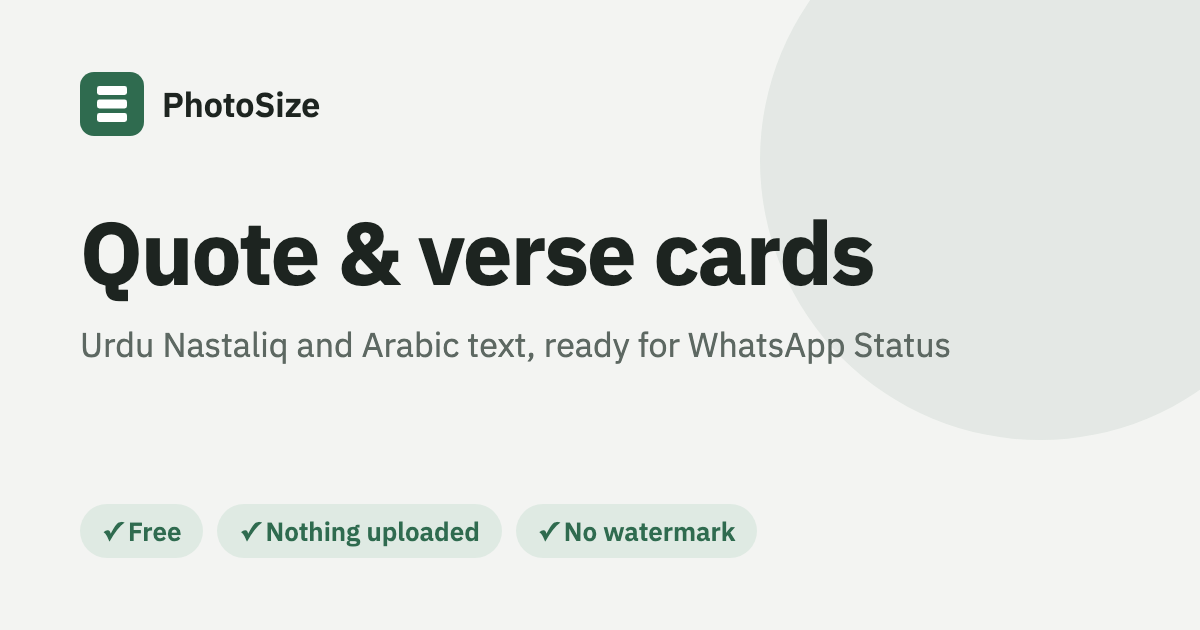
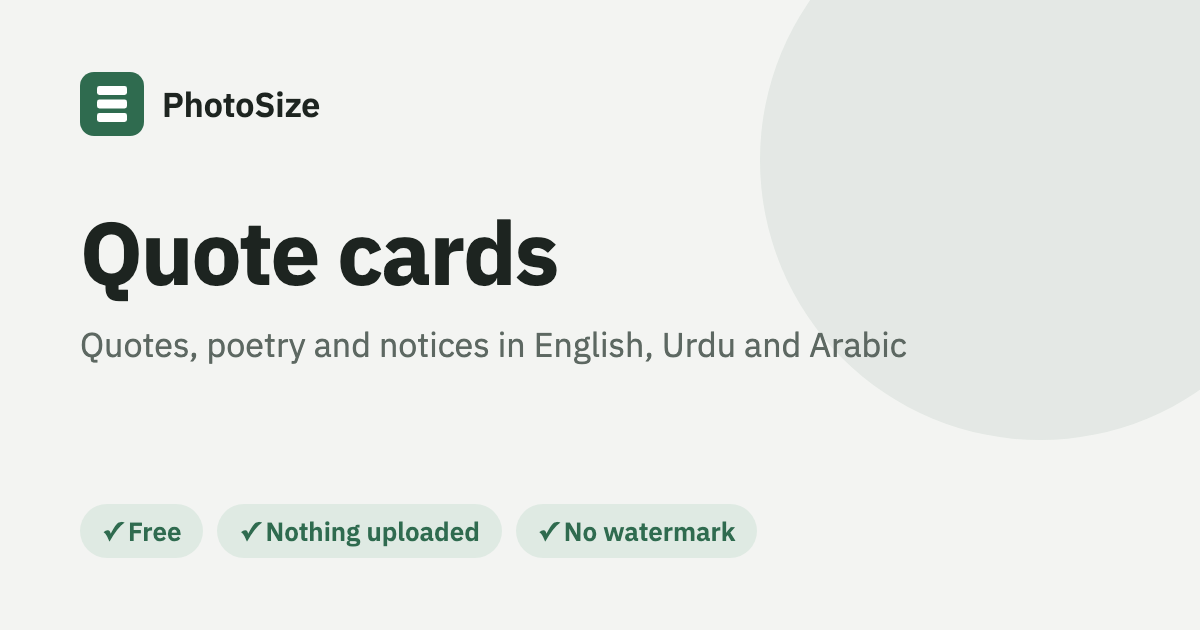
Neutral examples: Cards shows an Urdu proverb, Quiz cards a general-knowledge quiz; 'verse' and 'hadith' wording replaced with quotes, poetry and announcements in pages, help and social image; old saved example drafts are replaced, people's own text is kept

Changed region(s): [[0.2775, 0.3317, 0.74, 0.4524], [0.0617, 0.5127, 0.8017, 0.573]]

diff --git a/src/tools/CardsTool.tsx b/src/tools/CardsTool.tsx
@@ -12,20 +12,27 @@ interface Props {
 
 const KEY = 'cards-draft';
 const EXAMPLE: Card = {
-  text: 'بِسْمِ اللَّهِ الرَّحْمَٰنِ الرَّحِيمِ',
-  sub: 'In the name of Allah, the Most Gracious, the Most Merciful',
-  footer: 'Weekly Quran Circle',
+  text: 'محنت کامیابی کی کنجی ہے',
+  sub: 'Hard work is the key to success',
+  footer: 'Your name or group',
   template: 'paper',
   size: 'status',
   font: 'auto',
 };
 
+/** The example text earlier versions saved as a draft; replaced by the current example. */
+const OLD_EXAMPLE = 'بِسْمِ اللَّهِ الرَّحْمَٰنِ الرَّحِيمِ';
+
 function load(): Card {
-  try { return { ...EXAMPLE, ...JSON.parse(localStorage.getItem(KEY) || '{}') }; } catch { return EXAMPLE; }
+  try {
+    const saved = JSON.parse(localStorage.getItem(KEY) || '{}');
+    if (saved.text === OLD_EXAMPLE) { delete saved.text; delete saved.sub; delete saved.footer; }
+    return { ...EXAMPLE, ...saved };
+  } catch { return EXAMPLE; }
 }
 
 /**
- * Cards: verses, quotes and announcements as images sized for WhatsApp Status or Instagram,
+ * Cards: quotes, poems and announcements as images sized for WhatsApp Status or Instagram,
  * with proper Arabic, Urdu (Nastaliq) and English text. Nothing is uploaded.
  */
 export function CardsTool({ toast, show }: Props) {
@@ -60,13 +67,13 @@ export function CardsTool({ toast, show }: Props) {
     <main className="wrap">
       <div className="tool-head">
         <h1>{pageH1('Cards')}</h1>
-        <p>Make a verse, quote or announcement card for WhatsApp Status or Instagram, with proper Arabic and Urdu lettering. Nothing is uploaded.</p>
+        <p>Make a quote, poem or announcement card for WhatsApp Status or Instagram, with proper Arabic and Urdu lettering. Nothing is uploaded.</p>
       </div>
       <div className="grid">
         <section className="panel" aria-label="Card text and style">
           <div className="section" style={{ borderTop: 0, paddingTop: 0 }}>
             <label className="label" htmlFor="card-text">Main text</label>
-            <textarea id="card-text" dir="auto" rows={4} value={card.text} onChange={e => set({ text: e.target.value })} placeholder="A verse, hadith, quote or announcement" />
+            <textarea id="card-text" dir="auto" rows={4} value={card.text} onChange={e => set({ text: e.target.value })} placeholder="A quote, a line of poetry, a greeting or an announcement" />
             <label className="label" htmlFor="card-sub">Second line</label>
             <textarea id="card-sub" dir="auto" rows={2} value={card.sub} onChange={e => set({ sub: e.target.value })} placeholder="Translation or reference (optional)" />
             <label className="label" htmlFor="card-footer">Footer</label>
@@ -103,7 +110,7 @@ export function CardsTool({ toast, show }: Props) {
                   <label htmlFor="card-font">Font</label>
                   <select id="card-font" value={card.font} onChange={e => set({ font: e.target.value as ScriptFont })}>
                     <option value="auto">Automatic (Nastaliq for Urdu, Naskh for Arabic)</option>
-                    <option value="amiri">Amiri (classical, good for verses)</option>
+                    <option value="amiri">Amiri (classical, good for poetry)</option>
                     <option value="naskh">Naskh</option>
                     <option value="nastaliq">Nastaliq</option>
                   </select>

diff --git a/src/lib/quiz.test.ts b/src/lib/quiz.test.ts
@@ -3,19 +3,19 @@ import { parseQuiz, quizCards } from './quiz';
 
 describe('parseQuiz', () => {
   it('reads Q:/A: lines, including numbered and multi-line ones', () => {
-    const qs = parseQuiz('Q1: Surah Al-Fil ke mutabiq kya seekh milta hai?\nAns: Allah apni kisi bhi maqlooq se\napna kaam le sakta hai\n\nQuestion 2. What is Falah?\nAnswer - Success with no failure after it');
+    const qs = parseQuiz('Q1: Paudhe apna khana kaise banate hain?\nAns: Dhoop, paani aur hawa se,\nis ko photosynthesis kehte hain\n\nQuestion 2. What is gravity?\nAnswer - The pull between objects');
     expect(qs).toEqual([
-      { q: 'Surah Al-Fil ke mutabiq kya seekh milta hai?', a: 'Allah apni kisi bhi maqlooq se\napna kaam le sakta hai' },
-      { q: 'What is Falah?', a: 'Success with no failure after it' },
+      { q: 'Paudhe apna khana kaise banate hain?', a: 'Dhoop, paani aur hawa se,\nis ko photosynthesis kehte hain' },
+      { q: 'What is gravity?', a: 'The pull between objects' },
     ]);
   });
   it('reads Urdu سوال / جواب', () => {
-    expect(parseQuiz('سوال: فلاح کیا ہے؟\nجواب: کامیابی')).toEqual([{ q: 'فلاح کیا ہے؟', a: 'کامیابی' }]);
+    expect(parseQuiz('سوال: پاکستان کا دارالحکومت کیا ہے؟\nجواب: اسلام آباد')).toEqual([{ q: 'پاکستان کا دارالحکومت کیا ہے؟', a: 'اسلام آباد' }]);
   });
   it('reads blank-line separated blocks: first line question, rest answer', () => {
-    expect(parseQuiz('Who built the Kaaba?\nIbrahim and Ismail\n\nHow many surahs?\n114')).toEqual([
-      { q: 'Who built the Kaaba?', a: 'Ibrahim and Ismail' },
-      { q: 'How many surahs?', a: '114' },
+    expect(parseQuiz('Who wrote Hamlet?\nWilliam Shakespeare\n\nHow many days in a leap year?\n366')).toEqual([
+      { q: 'Who wrote Hamlet?', a: 'William Shakespeare' },
+      { q: 'How many days in a leap year?', a: '366' },
     ]);
   });
 });

diff --git a/src/tools/QuizTool.tsx b/src/tools/QuizTool.tsx
@@ -16,13 +16,20 @@ interface Props {
 interface Draft { text: string; title: string; footer: string; order: QuizOrder; template: CardTemplate; size: CardSize }
 const KEY = 'quiz-draft';
 const EXAMPLE: Draft = {
-  text: 'Q: Surah Al-Takathur ke mutabiq, ghaflat ke asbaab kya hain?\nA: Duniya hasil karne ki dhun\n\nQ: Surah Ash-Shams ke mutabiq, "Falah" ka matlab kya hai?\nA: Aisi kaamyabi jis ke baad koi nakami nahi',
-  title: 'Revision of Quran, Part 1', footer: 'Weekly Quran Circle', order: 'end', template: 'paper', size: 'post',
+  text: 'Q: What is the largest planet in our solar system?\nA: Jupiter\n\nQ: How many continents are there?\nA: Seven\n\nسوال: پانی کس درجہ حرارت پر ابلتا ہے؟\nجواب: 100 ڈگری سینٹی گریڈ',
+  title: 'General knowledge, Part 1', footer: 'Weekly class quiz', order: 'end', template: 'paper', size: 'post',
 };
 
 /** Quiz cards: type questions and answers once, get numbered cards ready to post one by one, answers last. */
 export function QuizTool({ toast, show }: Props) {
-  const [d, setD] = useState<Draft>(() => { try { return { ...EXAMPLE, ...JSON.parse(localStorage.getItem(KEY) || '{}') }; } catch { return EXAMPLE; } });
+  const [d, setD] = useState<Draft>(() => {
+    try {
+      const saved = JSON.parse(localStorage.getItem(KEY) || '{}');
+      // Earlier versions saved their example as a draft; show the current example instead
+      if (typeof saved.text === 'string' && saved.text.startsWith('Q: Surah Al-Takathur')) { delete saved.text; delete saved.title; delete saved.footer; }
+      return { ...EXAMPLE, ...saved };
+    } catch { return EXAMPLE; }
+  });
   const [at, setAt] = useState(0);
   const [busy, setBusy] = useState(false);
   const cv = useRef<HTMLCanvasElement>(null);

diff --git a/src/seo/pages.ts b/src/seo/pages.ts
@@ -207,9 +207,9 @@ export const TOOL_PAGES: Page[] = [
   {
     path: '/quote-card-maker', route: 'cards', og: 'cards', priority: 0.7,
     title: 'Quote Card Maker – Urdu & Arabic Text on Image, Free',
-    description: 'Make verse, quote and announcement cards with proper Urdu Nastaliq and Arabic fonts for WhatsApp Status and Instagram. Free, no watermark.',
-    h1: 'Quote and verse card maker (Urdu and Arabic ready)',
-    summary: 'Cards turns a verse, quote, hadith or announcement into a clean image for WhatsApp Status or Instagram, with proper Urdu Nastaliq and Arabic Naskh fonts that join letters correctly.',
+    description: 'Make quote, poetry and announcement cards with proper Urdu Nastaliq and Arabic fonts for WhatsApp Status and Instagram. Free, no watermark.',
+    h1: 'Quote card maker (Urdu and Arabic ready)',
+    summary: 'Cards turns a quote, a line of poetry, a greeting or an announcement into a clean image for WhatsApp Status or Instagram, with proper Urdu Nastaliq and Arabic Naskh fonts that join letters correctly.',
     steps: [
       'Type or paste your text, and a second line such as a translation or source if you want one.',
       'Pick a style and a size: WhatsApp Status, 4:5 post or square.',

diff --git a/src/lib/script.test.ts b/src/lib/script.test.ts
@@ -4,14 +4,14 @@ import { fitText, pickFont, rtlFirst, textStyle, wrapLines } from './script';
 describe('script detection', () => {
   it('gives Urdu Nastaliq, Arabic Naskh, English nothing', () => {
     expect(pickFont('یہ ہمارا اسکول ہے', 'auto')).toBe('nastaliq');
-    expect(pickFont('بِسْمِ اللَّهِ الرَّحْمَٰنِ الرَّحِيمِ', 'auto')).toBe('naskh');
-    expect(pickFont('Revision of Quran', 'auto')).toBeNull();
+    expect(pickFont('مَرْحَبًا بِكُمْ', 'auto')).toBe('naskh');
+    expect(pickFont('Revision, Part 1', 'auto')).toBeNull();
     expect(pickFont('الحمد لله', 'amiri')).toBe('amiri');
     expect(pickFont('جوابات سبق نمبر ۳', 'auto')).toBe('nastaliq');
   });
   it('sets direction by the first strong letter', () => {
     expect(rtlFirst('سورة الفاتحة 1')).toBe(true);
-    expect(rtlFirst('Surah الفاتحة')).toBe(false);
+    expect(rtlFirst('Chapter الف')).toBe(false);
     expect(textStyle('یہ', 'auto').lineHeight).toBeGreaterThan(textStyle('hello', 'auto').lineHeight);
   });
 });

diff --git a/src/tools/TextTool.tsx b/src/tools/TextTool.tsx
@@ -98,7 +98,7 @@ export function TextTool({ intakeRef, toast, show }: Props) {
               {LANGS.map(([l]) => <option key={l}>{l}</option>)}
             </select>
           </div>
-          {rtl && <p className="hint warn-text">Urdu and Arabic are read less reliably than English on this device: Nastaliq script and ligatures such as بسم الله are often missed. Check the text before you use it.</p>}
+          {rtl && <p className="hint warn-text">Urdu and Arabic are read less reliably than English on this device: Nastaliq script and joined letters are often missed. Check the text before you use it.</p>}
           {entries.length > 0 && <button className="btn sm" disabled={!!progress} onClick={() => { setEntries(p => p.map(e => ({ ...e, text: null }))); read(entries, langs); }}>Read again in {lang}</button>}
           <p className="hint">Clear, straight, well-lit text reads best. For paper, use Scan first, then read the cleaned page.</p>
         </section>

diff --git a/src/components/Help.tsx b/src/components/Help.tsx
@@ -40,7 +40,7 @@ export function Help({ onClose }: Props) {
         </ol>
         <p className="hint">
           <strong>More tools</strong> are under <strong>Tools</strong> at the top: fit a photo or signature to a form's size, scan paper to PDF, passport
-          photos, clean signatures, verse and quiz cards, QR codes, watermarks, background removal, short videos, copying text out of images,
+          photos, clean signatures, quote and quiz cards, QR codes, watermarks, background removal, short videos, copying text out of images,
           removing hidden location data, and opening iPhone photos.
         </p>
         <p className="hint">Your images and settings are kept in this browser, so a reload doesn't lose them. Use Clear to remove them. Photos in Fit to size, Signature and Passport photo are never saved.</p>

diff --git a/src/App.tsx b/src/App.tsx
@@ -371,7 +371,7 @@ export default function App() {
     ({ key, label, hint, group, href: pathOf(key as Exclude<typeof route, 'info'>), active: route === key });
   const tools: ToolLink[] = [
     T('stack', 'Stacker', 'Stack images and PDF slides into tall images, grids or carousels', 'Share'),
-    T('cards', 'Cards', 'Verse, quote and announcement cards, Urdu and Arabic ready', 'Share'),
+    T('cards', 'Cards', 'Quote, poem and announcement cards, Urdu and Arabic ready', 'Share'),
     T('quiz', 'Quiz cards', 'Numbered question cards with the answers last', 'Share'),
     T('qr', 'QR codes', 'WhatsApp, WiFi and contact codes as posters, never expire', 'Share'),
     T('watermark', 'Watermark', 'Your logo or name on many photos at once', 'Share'),

diff --git a/src/lib/qr.test.ts b/src/lib/qr.test.ts
@@ -17,7 +17,7 @@ describe('WhatsApp links', () => {
 
 describe('WiFi', () => {
   it('escapes special characters', () =>
-    expect(wifiPayload({ ssid: 'Masjid;Guest', password: 'p:a"ss', security: 'WPA', hidden: false })).toBe('WIFI:T:WPA;S:Masjid\\;Guest;P:p\\:a\\"ss;;'));
+    expect(wifiPayload({ ssid: 'Cafe;Guest', password: 'p:a"ss', security: 'WPA', hidden: false })).toBe('WIFI:T:WPA;S:Cafe\\;Guest;P:p\\:a\\"ss;;'));
   it('leaves out the password for open networks', () =>
     expect(wifiPayload({ ssid: 'Open', password: 'x', security: 'nopass', hidden: true })).toBe('WIFI:T:nopass;S:Open;H:true;;'));
 });

diff --git a/src/lib/script.ts b/src/lib/script.ts
@@ -36,7 +36,7 @@ export function textStyle(text: string, choice: ScriptFont) {
   };
 }
 
-/** Right to left when the first strong letter is Arabic script (so "Surah الفاتحة" stays left to right). */
+/** Right to left when the first strong letter is Arabic script (so "Chapter الف" stays left to right). */
 export function rtlFirst(text: string) {
   for (const ch of text) {
     if (ARABIC.test(ch)) return true;

diff --git a/src/lib/cards.ts b/src/lib/cards.ts
@@ -29,7 +29,7 @@ export interface Card {
 
 const LATIN_SERIF = 'Georgia, "Times New Roman", serif';
 
-/** An eight-pointed star (two overlapping squares), a common motif in Islamic geometric art. */
+/** An eight-pointed star (two overlapping squares), a simple geometric ornament. */
 function star(x: CanvasRenderingContext2D, cx: number, cy: number, r: number, fill: string) {
   x.save();
   x.fillStyle = fill;
